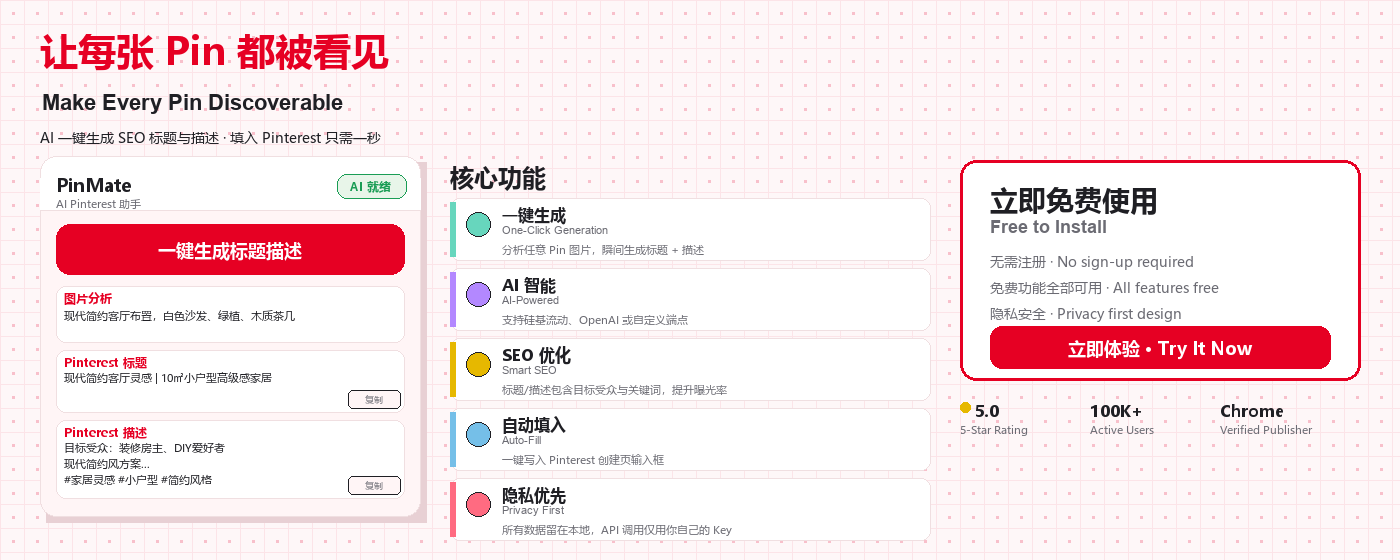
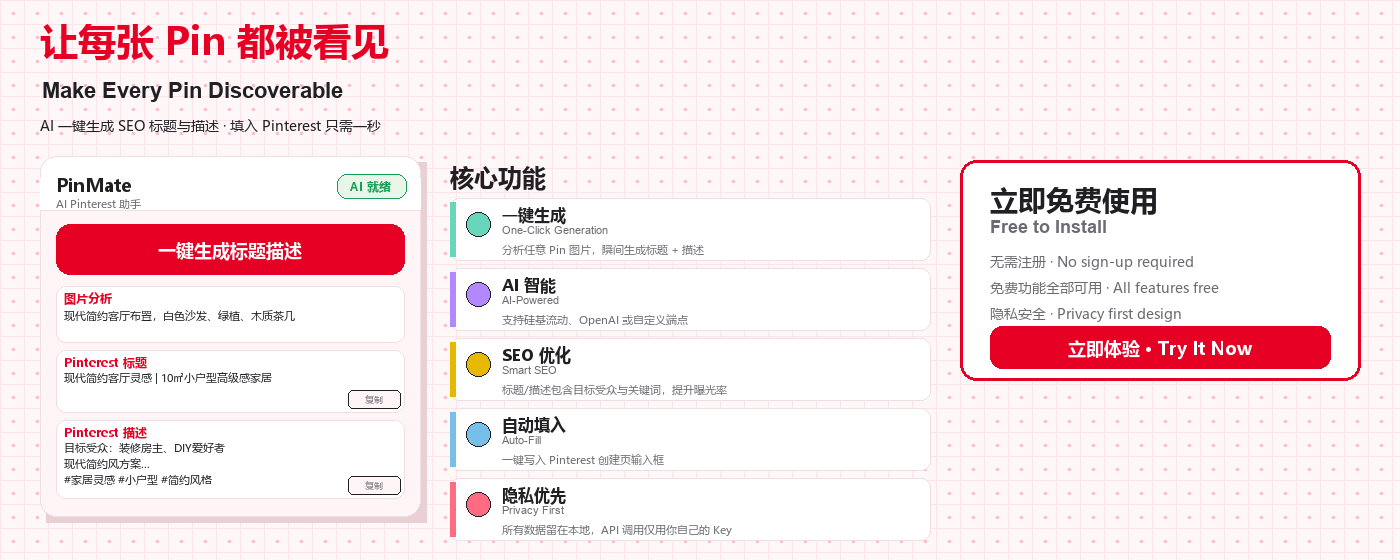
fix(store-promo): drop fake trust badges & lift headline

diff --git a/assets/generate-store-promo.py b/assets/generate-store-promo.py
@@ -230,12 +230,12 @@ def large_promo():
     img, d = base_bg(W, H)
 
     # ── Slogan directly on light-pink bg (no red banner) ──
-    text(d, (40, 24), "让每张 Pin 都被看见",
+    text(d, (40, 14), "让每张 Pin 都被看见",
          fill=C["primary"], f=font(38, bold=True))
-    text(d, (42, 90), "Make Every Pin Discoverable",
+    text(d, (42, 78), "Make Every Pin Discoverable",
          fill=C["text"], f=font_en(22, bold=True))
     sub_text = ("AI 一键生成 SEO 标题与描述 · 填入 Pinterest 只需一秒")
-    text(d, (40, 128), sub_text, fill=C["text"], f=FZ["body"])
+    text(d, (40, 116), sub_text, fill=C["text"], f=FZ["body"])
 
     # ── Content area: 3 columns ──
 
@@ -401,25 +401,8 @@ def large_promo():
     text(d, (rx + cta_box_w // 2, btn_y + 21), cta_btn_text, fill="white",
          f=font(18, bold=True), anchor="mm")
 
-    # Trust indicators below CTA box (no star emoji — draw gold dots)
-    ti_y = ry + cta_box_h + 20
-    trust_items = [
-        ("5.0", "5-Star Rating"),
-        ("100K+", "Active Users"),
-        ("Chrome", "Verified Publisher"),
-    ]
-    for i, (icon, label) in enumerate(trust_items):
-        tx = rx + i * 130
-        # gold dot before label for rating
-        if i == 0:
-            d.ellipse((tx, ti_y + 2, tx + 10, ti_y + 12), fill=C["cream"])
-            text(d, (tx + 14, ti_y), icon, fill=C["text"], f=FZ["h3"])
-        else:
-            text(d, (tx, ti_y), icon, fill=C["text"], f=FZ["h3"])
-        text(d, (tx, ti_y + 22), label, fill=C["sub"], f=FZ["tiny"])
-
-    # Safety line check: bottom-most element must be < H - 12
-    # ti_y + 22 + tiny_font_size ≈ ry + 240 + 22 + 11 = 433 << 560 - 12 = 548
+    # (Removed fabricated trust badges: no ratings, no active users, no
+    # "Verified Publisher" claim — extension is not yet published.)
 
     img.save(OUT / "promo-large-1400x560.png")
     print(f"  [OK] {OUT / 'promo-large-1400x560.png'}")
